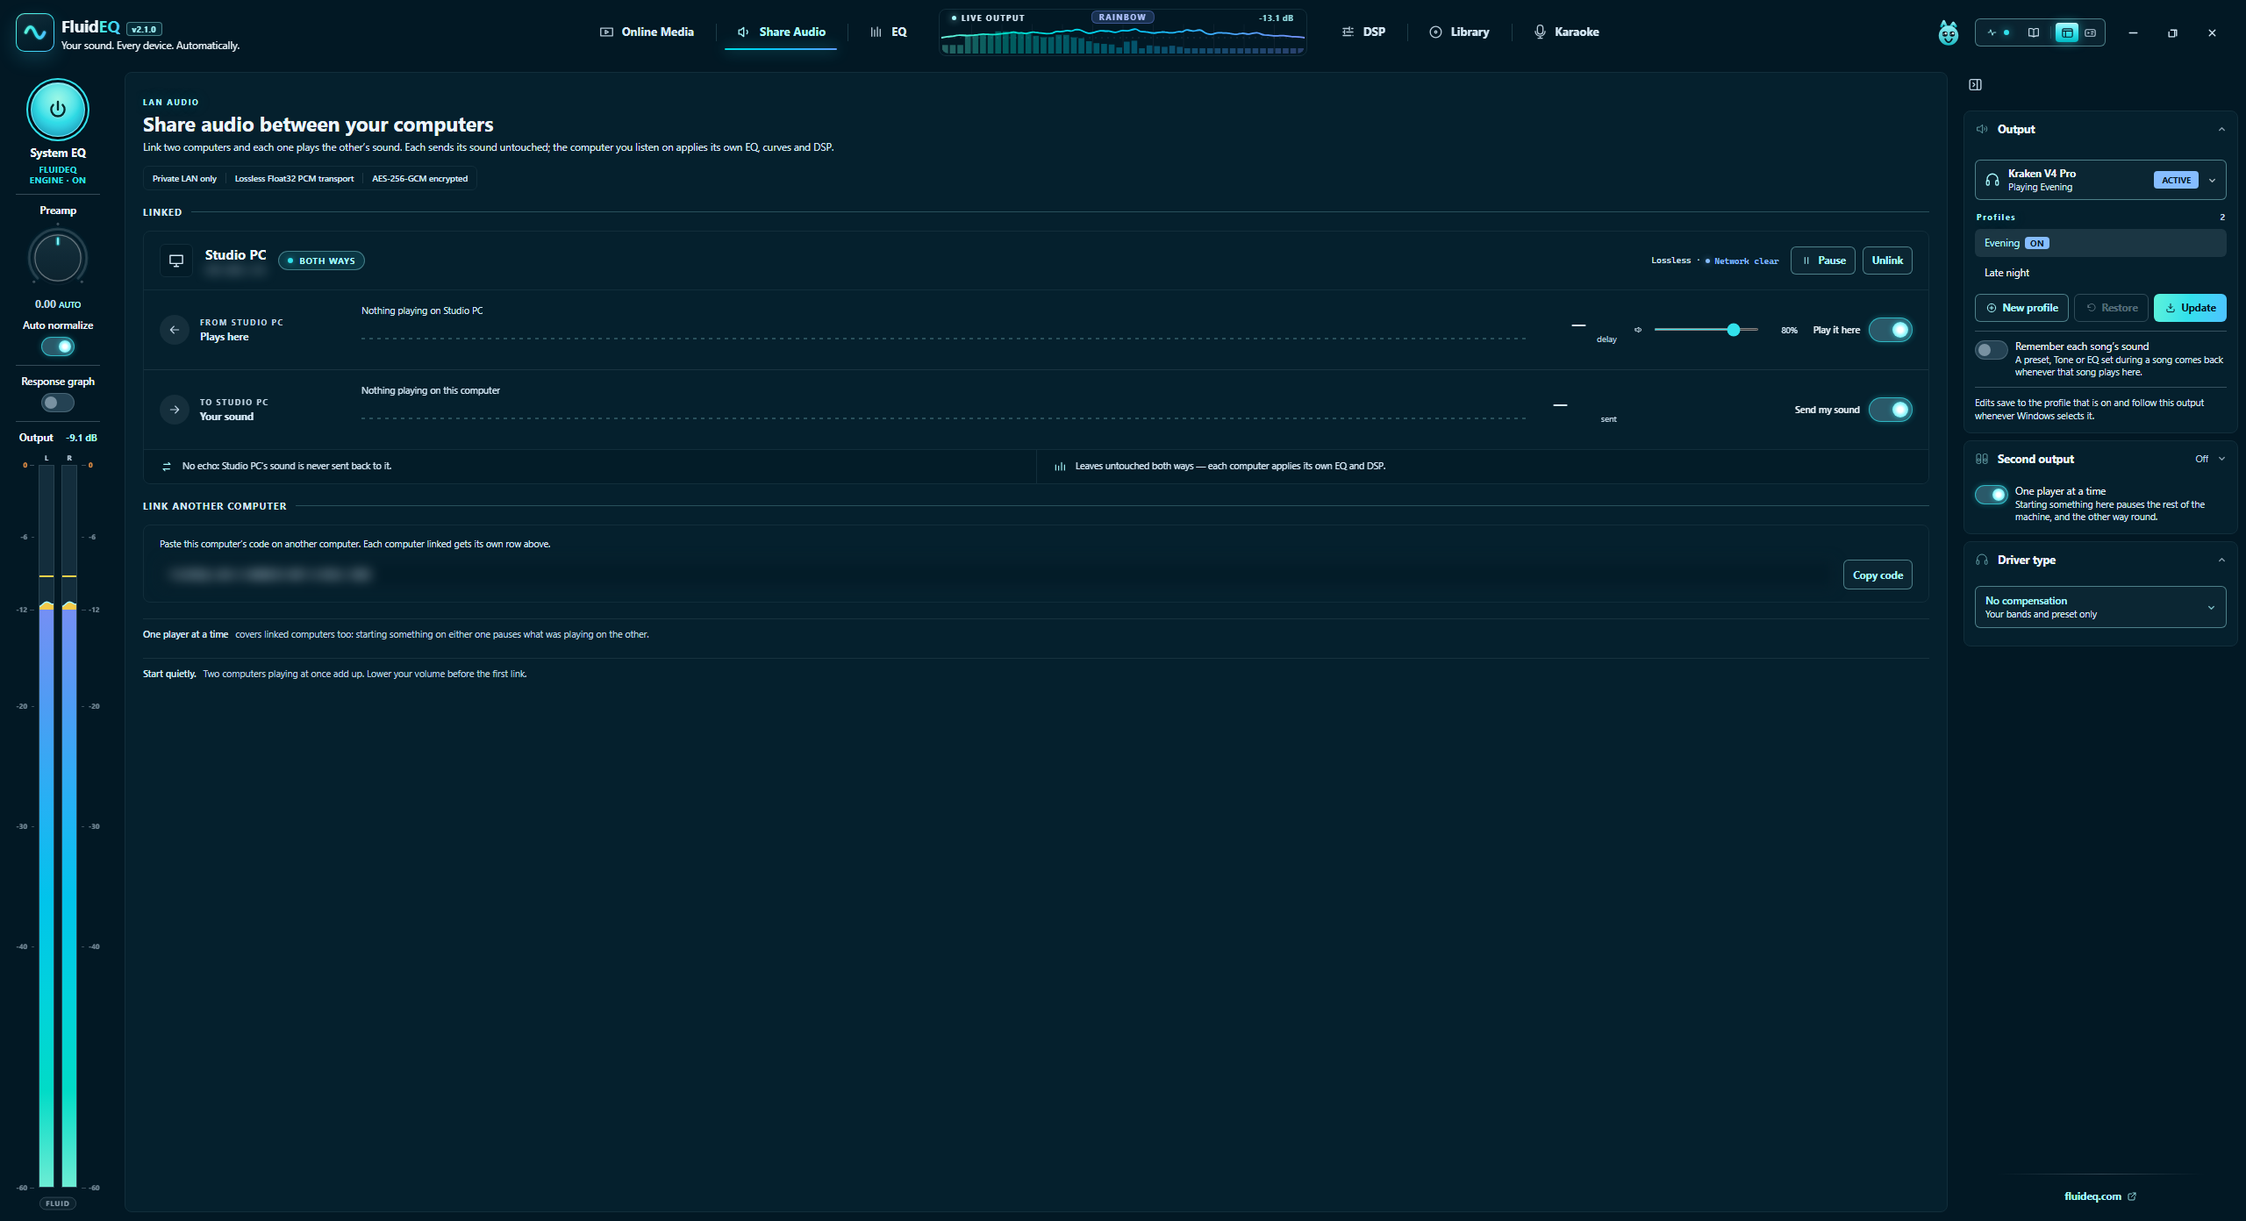
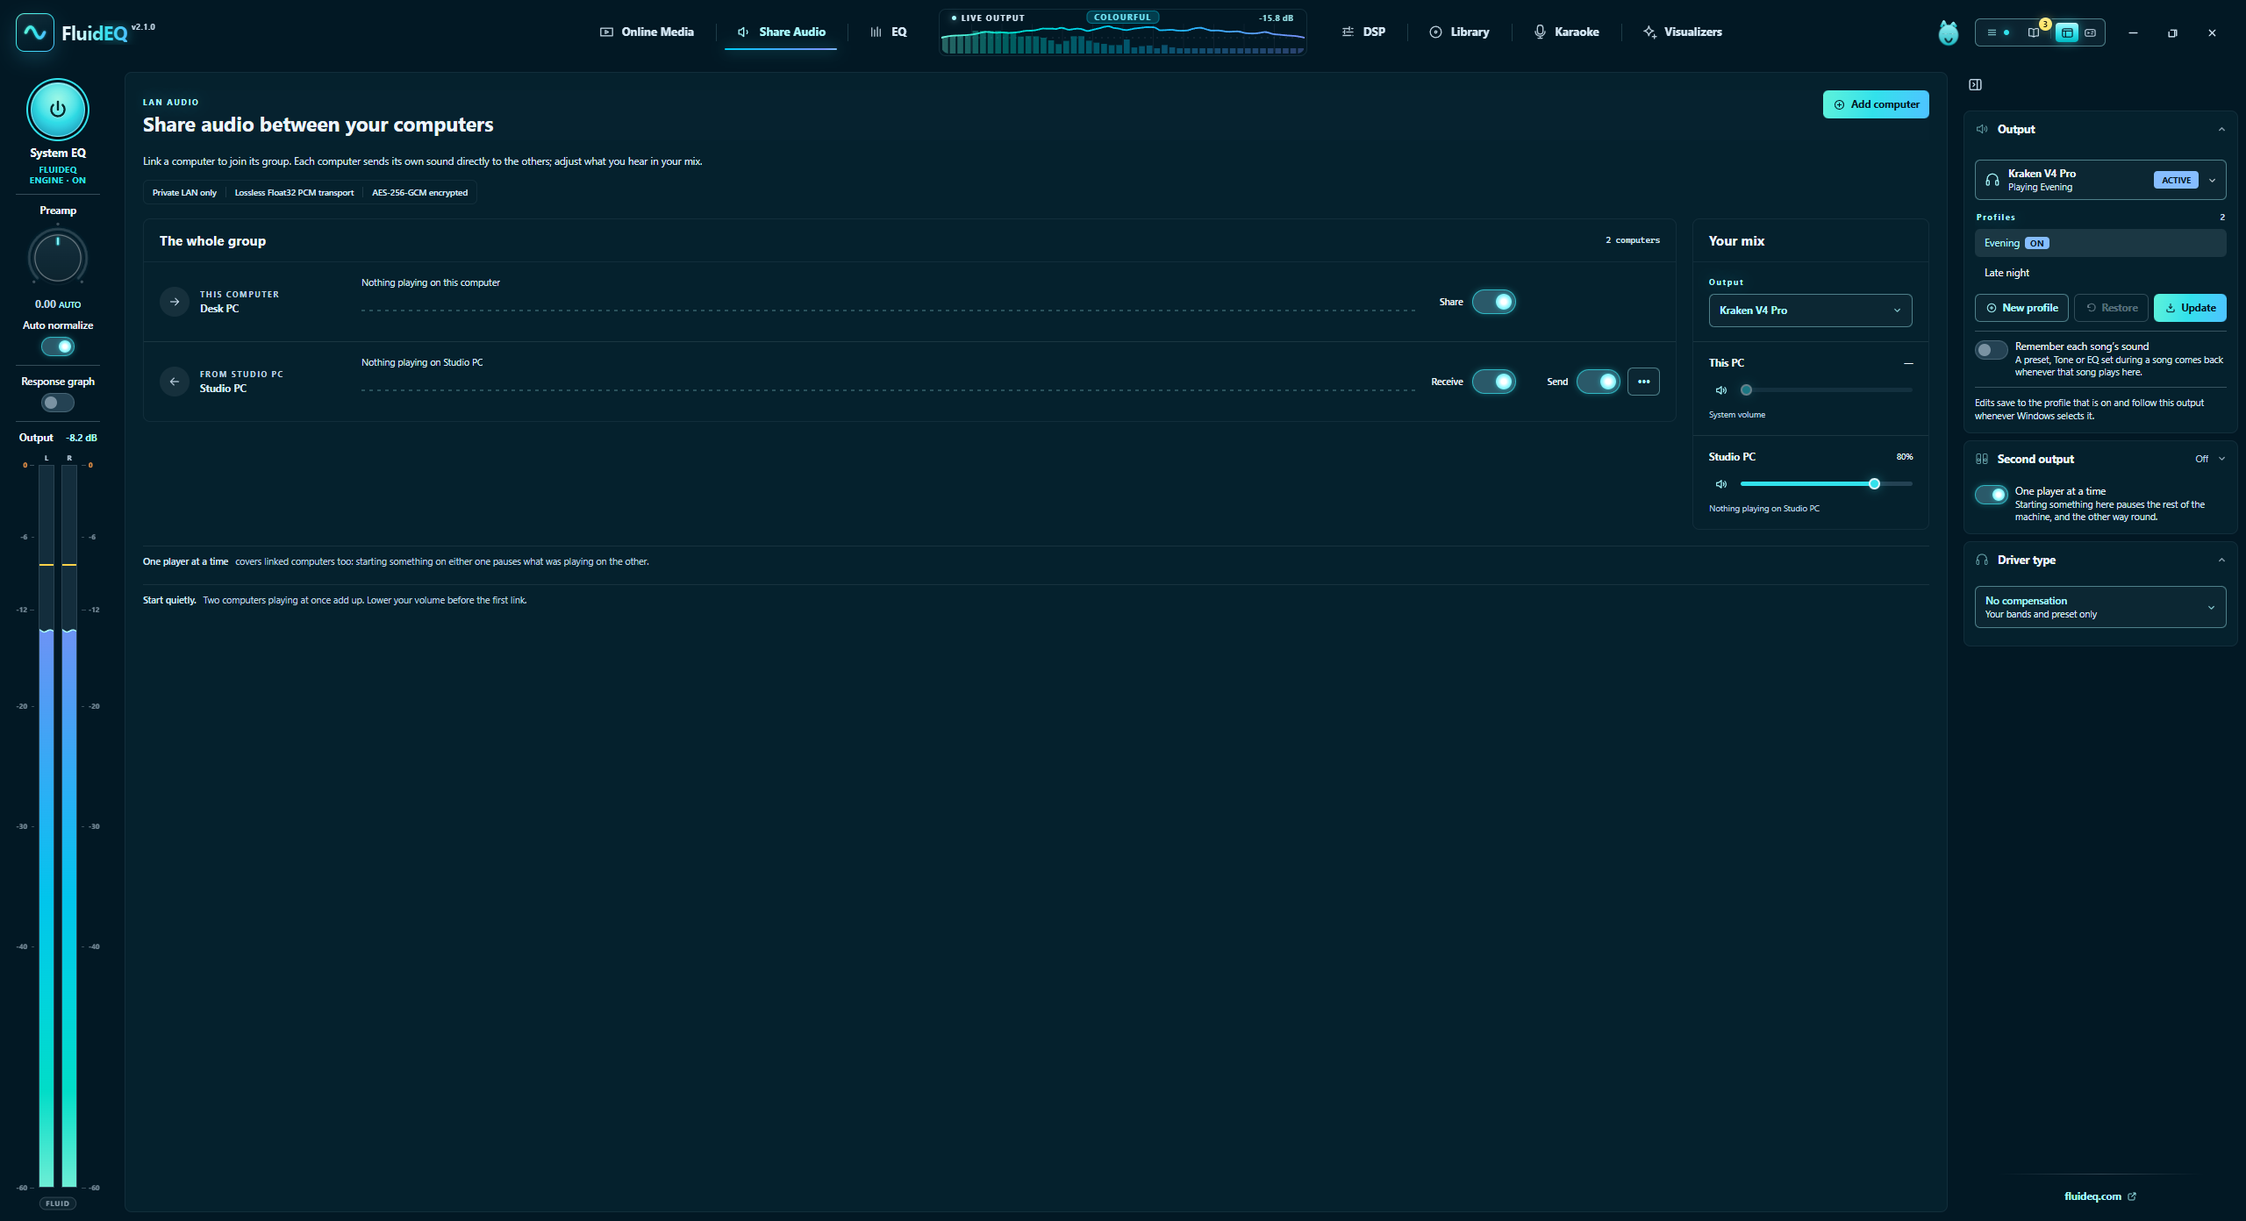
Share Audio counts "1 computer", and Help's Share Audio picture is taken from today's page
Found by the Help redraw of Share Audio (2026-10-26); routed to Share Audio.

1. Group header plurals. With nobody linked the header read "1 computers":
   remoteAudio.group.count had one form for every count. It now reads
   "1 computer" and "2 computers", and in Russian "1 компьютер / 2 компьютера /
   5 компьютеров", in all ten languages. There are four keys per language
   (one, few, many, other), chosen through Intl.PluralRules, and every locale
   writes all four, because a key missing in one falls back to English. ja and
   zh keep one form. A shared helper (renderer/utils/pluralCategory.ts) now
   serves the header, credits.ts and CreatorPayoutsCard. Their two private
   copies of the same rule are gone, with no change in behaviour.
2. Help capture of figure 14. scripts/help-captures still drove the old page
   and waited for the code row, which now lives inside the Add computer
   dialog. The capture harness now answers today's start-up calls; figures.ts
   waits for the group, links Studio PC and waits for its row. The dialog
   stays shut, so no code is in the picture. Retaken headless against the
   harness: docs/14-share-audio-roles.png shows the group with "2 computers"
   and Your mix. Its measurements are unchanged (0 call-outs, 2560x1392).

diff --git a/src/__tests__/unit_tests/renderer/groupCountPlural.test.ts b/src/__tests__/unit_tests/renderer/groupCountPlural.test.ts
@@ -1,0 +1,72 @@
+/* FluidEQ — GPL-3.0-or-later */
+
+/**
+ * The Share Audio group's header counts its computers in each language's own
+ * plural. With nobody linked it read "1 computers": the label had one form,
+ * and Russian dodged its three by writing "Компьютеров: 1".
+ */
+
+import {
+  LOCALES,
+  loadLocale,
+  translate,
+  type LocaleCode,
+  type TranslationKey,
+} from 'common/i18n';
+import { pluralCategory } from 'renderer/utils/pluralCategory';
+
+/** The header's words for `count` computers, as the group builds them. */
+const header = (locale: LocaleCode, count: number) =>
+  translate(
+    locale,
+    `remoteAudio.group.count.${pluralCategory(count, locale)}` as TranslationKey,
+    { count: new Intl.NumberFormat(locale).format(count) },
+  );
+
+beforeAll(() => Promise.all(LOCALES.map(({ code }) => loadLocale(code))));
+
+describe('the plural form a count takes', () => {
+  it('follows each language’s own rule', () => {
+    expect(pluralCategory(1, 'en')).toBe('one');
+    expect(pluralCategory(2, 'en')).toBe('other');
+    expect(pluralCategory(1, 'ru')).toBe('one');
+    expect(pluralCategory(3, 'ru')).toBe('few');
+    expect(pluralCategory(5, 'ru')).toBe('many');
+    expect(pluralCategory(21, 'ru')).toBe('one');
+    // A language with one form, and French, whose singular takes zero too.
+    expect(pluralCategory(1, 'ja')).toBe('other');
+    expect(pluralCategory(0, 'fr')).toBe('one');
+  });
+});
+
+describe('the group header', () => {
+  it('says one computer, two computers and five computers', () => {
+    expect([1, 2, 5].map((count) => header('en', count))).toEqual([
+      '1 computer',
+      '2 computers',
+      '5 computers',
+    ]);
+    expect([1, 2, 5].map((count) => header('ru', count))).toEqual([
+      '1 компьютер',
+      '2 компьютера',
+      '5 компьютеров',
+    ]);
+    expect([1, 2, 5].map((count) => header('es', count))).toEqual([
+      '1 equipo',
+      '2 equipos',
+      '5 equipos',
+    ]);
+  });
+
+  // A form missing in a language is caught by i18n.test.ts, which holds
+  // every dictionary to English's keys.
+  it('writes the count into every form of every language', () => {
+    LOCALES.forEach(({ code }) => {
+      [1, 2, 3, 5, 21, 1_000_000].forEach((count) => {
+        const words = header(code, count);
+        expect(words).not.toContain('{count}');
+        expect(words).toContain(new Intl.NumberFormat(code).format(count));
+      });
+    });
+  });
+});

diff --git a/scripts/help-captures/figures.ts b/scripts/help-captures/figures.ts
@@ -363,22 +363,24 @@ export const FIGURES: readonly IFigureSpec[] = [
     ],
   },
   {
-    // Share Audio with one computer linked. Its code and every network
-    // address are blurred, as they always have been in the guide.
+    // Share Audio with one computer linked, as a group: this computer and the
+    // one it links with, and Your mix beside them. The connection code now
+    // lives in the Add computer dialog, which stays shut, so no code is in
+    // the picture; any address the page shows is still blurred.
     image: '14-share-audio-roles.png',
     settings: {},
     steps: [
       `await until(() => $('.top-tabs, header'))`,
       `click(byText(document.body, 'Share Audio').closest('button, [role=tab], a'))`,
-      `await until(() => $('.remote-audio__code-row'))`,
-      `window.__harnessEmit('remote-audio-lan-signal', { peerId: 'harness-peer', signal: { kind: 'peer-ready', deviceName: 'Studio PC', address: '192.168.1.42', joined: false } })`,
-      `await until(() => $('.remote-audio__link:not(.is-looking)'))`,
+      `await until(() => $('.remote-audio__group'))`,
+      `window.__harnessEmit('remote-audio-lan-signal', { peerId: 'harness-peer', signal: { kind: 'peer-ready', deviceName: 'Studio PC', address: '192.168.1.42', joined: false, computerId: 'harness-studio-pc' } })`,
+      `await until(() => $('.remote-audio__group-row[aria-label="Studio PC"]'))`,
       // The other computer says what it does: sends its sound, plays ours.
       `window.__harnessEmit('remote-audio-lan-signal', { peerId: 'harness-peer', signal: { kind: 'stream-mode', mode: 'music', duplex: { sends: true, plays: true } } })`,
-      `await until(() => !byText($('.remote-audio__link'), 'Studio PC needs'))`,
+      `await until(() => byText($('.remote-audio__group-row[aria-label="Studio PC"]'), 'Nothing playing on Studio PC'))`,
     ],
     crop: 'window',
-    blur: `.remote-audio__code-value, .remote-audio__link-name > span, .remote-audio__code-row [class*=address]`,
+    blur: `.remote-audio__code-value, .remote-audio__link-name > span, [class*=address]`,
     controls: [],
   },
 ];

diff --git a/src/renderer/plus/credits.ts b/src/renderer/plus/credits.ts
@@ -5,33 +5,22 @@ SPDX-License-Identifier: GPL-3.0-or-later
 */
 
 import type { Translate, TranslationKey } from 'common/i18n';
+import { pluralCategory } from '../utils/pluralCategory';
 
 /**
  * A number of credits in words, in the reader's own plural: "1 credit",
  * "2 credits", and Russian's "1 кредит", "3 кредита", "5 кредитов". Every
  * other count in the app gets by on one-or-many keys and phrasing around the
  * number; a price is said too often, and too close to money, to read wrong.
- *
- * The categories are the CLDR ones `Intl.PluralRules` answers with, and every
- * locale writes all four keys of each set — a key missing in one falls back
- * to English, not to that language's other form.
+ * The form is `pluralCategory`'s.
  */
-
-type TCategory = 'one' | 'few' | 'many' | 'other';
-
-const categoryOf = (count: number, locale: string): TCategory => {
-  const category = new Intl.PluralRules(locale).select(count);
-  return category === 'one' || category === 'few' || category === 'many'
-    ? category
-    : 'other';
-};
 
 /** "{count} credits", the count written in the reader's digits. */
 export const creditsText = (t: Translate, locale: string, count: number) =>
-  t(`store.credit.${categoryOf(count, locale)}` as TranslationKey, {
+  t(`store.credit.${pluralCategory(count, locale)}` as TranslationKey, {
     count: new Intl.NumberFormat(locale).format(count),
   });
 
 /** The word alone, for under a figure drawn large: "credits". */
 export const creditsUnit = (t: Translate, locale: string, count: number) =>
-  t(`store.credits.unit.${categoryOf(count, locale)}` as TranslationKey);
+  t(`store.credits.unit.${pluralCategory(count, locale)}` as TranslationKey);

diff --git a/src/renderer/remoteAudio/RemoteAudioGroup.tsx b/src/renderer/remoteAudio/RemoteAudioGroup.tsx
@@ -1,7 +1,9 @@
 /* FluidEQ — GPL-3.0-or-later */
 import type { IRemoteNowPlaying } from '../../common/remoteAudio';
 import { compareAudioComputers } from '../../common/remoteAudioGroup';
+import type { TranslationKey } from '../../common/i18n';
 import { useTranslation } from '../utils/I18nContext';
+import { pluralCategory } from '../utils/pluralCategory';
 import Switch from '../widgets/Switch';
 import RemoteAudioLane from './RemoteAudioLane';
 import RemoteAudioPeerMenu from './RemoteAudioPeerMenu';
@@ -51,7 +53,10 @@ const RemoteAudioGroup = ({
   remote: IRemoteAudioValue;
   localNowPlaying?: IRemoteNowPlaying;
 }) => {
-  const { t } = useTranslation();
+  const { t, locale } = useTranslation();
+  // This computer and every other one listed, counted in the language's own
+  // plural: with nobody linked the header read "1 computers".
+  const computers = 1 + audioGroupRows(remote).length;
   const { sharing } = remote;
   const thisComputerSounds =
     useIncomingSounding(remote.subscribeMeter, ONLY_THIS_COMPUTER)[
@@ -92,9 +97,10 @@ const RemoteAudioGroup = ({
         </span>
         <span className="remote-audio__link-spacer" />
         <span className="remote-audio__link-stats">
-          {t('remoteAudio.group.count', {
-            count: 1 + audioGroupRows(remote).length,
-          })}
+          {t(
+            `remoteAudio.group.count.${pluralCategory(computers, locale)}` as TranslationKey,
+            { count: new Intl.NumberFormat(locale).format(computers) },
+          )}
         </span>
       </header>
       <article className="remote-audio__lane remote-audio__group-row">

diff --git a/src/renderer/account/CreatorPayoutsCard.tsx b/src/renderer/account/CreatorPayoutsCard.tsx
@@ -13,6 +13,7 @@ import {
 } from 'common/creatorPayouts';
 import Glyph from '../community/Glyph';
 import { useTranslation } from '../utils/I18nContext';
+import { pluralCategory } from '../utils/pluralCategory';
 import { CREATOR_ERRORS } from './creatorErrors';
 import CreatorSignUpDialog from './CreatorSignUpDialog';
 import { loadCreator, refreshCreator, useCreator } from './creatorStore';
@@ -42,16 +43,8 @@ const LINES: Record<TStage, TranslationKey> = {
   paid: 'creator.paidLine',
 };
 
-type TCategory = 'one' | 'few' | 'many' | 'other';
-
-const salesKey = (count: number, locale: string): TranslationKey => {
-  const category = new Intl.PluralRules(locale).select(count);
-  const known: TCategory =
-    category === 'one' || category === 'few' || category === 'many'
-      ? category
-      : 'other';
-  return `creator.sales.${known}`;
-};
+const salesKey = (count: number, locale: string): TranslationKey =>
+  `creator.sales.${pluralCategory(count, locale)}`;
 
 interface ICreatorPayoutsCardProps {
   /** Whose payouts these are. A different account starts the read again. */

diff --git a/scripts/help-captures/harness/scenario.ts b/scripts/help-captures/harness/scenario.ts
@@ -250,21 +250,18 @@ export const INVOKES: Record<string, TAnswer> = {
   },
   'output-mirror-stop': () => undefined,
   'output-mirror-volume': () => undefined,
-  // Share Audio: this computer keeps its code, and the capture script links
-  // a computer to it once the page shows the code (`figures.ts`).
-  'remote-audio-lan-saved-role': () => 'listener',
-  'remote-audio-lan-restore': () => ({
-    role: 'listener',
+  // Share Audio: this computer is on the network under its code, nobody
+  // linked yet; the capture script links a computer once the group is up
+  // (`figures.ts`).
+  'remote-audio-lan-saved': () => true,
+  'remote-audio-lan-start': () => ({
     details: {
       deviceName: 'Desk PC',
-      options: [
-        {
-          address: '192.168.1.20',
-          code: 'FLUIDEQ-LAN-2-HARNESS-NOT-A-REAL-CODE',
-          deviceName: 'Desk PC',
-        },
-      ],
+      code: 'FLUIDEQ-LAN-2-HARNESS-NOT-A-REAL-CODE',
+      computerId: 'harness-desk-pc',
     },
+    joins: [],
+    links: [],
   }),
   'remote-audio-lan-switches-for': () => ({
     send: true,

diff --git a/src/renderer/utils/pluralCategory.ts b/src/renderer/utils/pluralCategory.ts
@@ -1,0 +1,24 @@
+/* FluidEQ — GPL-3.0-or-later */
+
+/** The plural forms a counted phrase is written in, one key each. */
+export type TPluralCategory = 'one' | 'few' | 'many' | 'other';
+
+/**
+ * Which of a counted phrase's forms the reader's language uses for `count`:
+ * "1 computer", "2 computers", and Russian's "1 компьютер", "3 компьютера",
+ * "5 компьютеров".
+ *
+ * The CLDR categories `Intl.PluralRules` answers with. Every locale writes
+ * all four keys of a set, because a key missing in one falls back to
+ * English rather than to that language's other form. `zero` and `two` belong
+ * to languages FluidEQ does not ship, and read as `other`.
+ */
+export const pluralCategory = (
+  count: number,
+  locale: string,
+): TPluralCategory => {
+  const category = new Intl.PluralRules(locale).select(count);
+  return category === 'one' || category === 'few' || category === 'many'
+    ? category
+    : 'other';
+};

diff --git a/src/common/i18n/hi/remoteAudio.ts b/src/common/i18n/hi/remoteAudio.ts
@@ -10,7 +10,10 @@ const remoteAudio: Partial<Dictionary> = {
   'remoteAudio.group.send': 'भेजें',
   'remoteAudio.group.share': 'साझा करें',
   'remoteAudio.group.options': '{name} के विकल्प',
-  'remoteAudio.group.count': '{count} कंप्यूटर',
+  'remoteAudio.group.count.one': '{count} कंप्यूटर',
+  'remoteAudio.group.count.few': '{count} कंप्यूटर',
+  'remoteAudio.group.count.many': '{count} कंप्यूटर',
+  'remoteAudio.group.count.other': '{count} कंप्यूटर',
   'remoteAudio.group.sourceOff': 'साझा करना बंद है',
   'remoteAudio.group.offline': 'ऑफ़लाइन',
   'remoteAudio.group.unavailable': 'सिस्टम वॉल्यूम उपलब्ध नहीं है',

diff --git a/src/common/i18n/ru/remoteAudio.ts b/src/common/i18n/ru/remoteAudio.ts
@@ -10,7 +10,10 @@ const remoteAudio: Partial<Dictionary> = {
   'remoteAudio.group.send': 'Отправлять',
   'remoteAudio.group.share': 'Делиться',
   'remoteAudio.group.options': 'Параметры {name}',
-  'remoteAudio.group.count': 'Компьютеров: {count}',
+  'remoteAudio.group.count.one': '{count} компьютер',
+  'remoteAudio.group.count.few': '{count} компьютера',
+  'remoteAudio.group.count.many': '{count} компьютеров',
+  'remoteAudio.group.count.other': '{count} компьютера',
   'remoteAudio.group.sourceOff': 'Передача выключена',
   'remoteAudio.group.offline': 'Не в сети',
   'remoteAudio.group.unavailable': 'Системная громкость недоступна',

diff --git a/src/common/i18n/ja/remoteAudio.ts b/src/common/i18n/ja/remoteAudio.ts
@@ -10,7 +10,10 @@ const remoteAudio: Partial<Dictionary> = {
   'remoteAudio.group.send': '送信',
   'remoteAudio.group.share': '共有',
   'remoteAudio.group.options': '{name} のオプション',
-  'remoteAudio.group.count': '{count} 台のコンピューター',
+  'remoteAudio.group.count.one': '{count} 台のコンピューター',
+  'remoteAudio.group.count.few': '{count} 台のコンピューター',
+  'remoteAudio.group.count.many': '{count} 台のコンピューター',
+  'remoteAudio.group.count.other': '{count} 台のコンピューター',
   'remoteAudio.group.sourceOff': '共有はオフです',
   'remoteAudio.group.offline': 'オフライン',
   'remoteAudio.group.unavailable': 'システム音量を利用できません',

diff --git a/src/common/i18n/pt/remoteAudio.ts b/src/common/i18n/pt/remoteAudio.ts
@@ -10,7 +10,10 @@ const remoteAudio: Partial<Dictionary> = {
   'remoteAudio.group.send': 'Enviar',
   'remoteAudio.group.share': 'Compartilhar',
   'remoteAudio.group.options': 'Opções de {name}',
-  'remoteAudio.group.count': '{count} computadores',
+  'remoteAudio.group.count.one': '{count} computador',
+  'remoteAudio.group.count.few': '{count} computadores',
+  'remoteAudio.group.count.many': '{count} de computadores',
+  'remoteAudio.group.count.other': '{count} computadores',
   'remoteAudio.group.sourceOff': 'Compartilhamento desativado',
   'remoteAudio.group.offline': 'Offline',
   'remoteAudio.group.unavailable': 'Volume do sistema indisponível',

diff --git a/src/common/i18n/fr/remoteAudio.ts b/src/common/i18n/fr/remoteAudio.ts
@@ -10,7 +10,10 @@ const remoteAudio: Partial<Dictionary> = {
   'remoteAudio.group.send': 'Envoyer',
   'remoteAudio.group.share': 'Partager',
   'remoteAudio.group.options': 'Options de {name}',
-  'remoteAudio.group.count': '{count} ordinateurs',
+  'remoteAudio.group.count.one': '{count} ordinateur',
+  'remoteAudio.group.count.few': '{count} ordinateurs',
+  'remoteAudio.group.count.many': '{count} d’ordinateurs',
+  'remoteAudio.group.count.other': '{count} ordinateurs',
   'remoteAudio.group.sourceOff': 'Partage désactivé',
   'remoteAudio.group.offline': 'Hors ligne',
   'remoteAudio.group.unavailable': 'Volume système indisponible',
